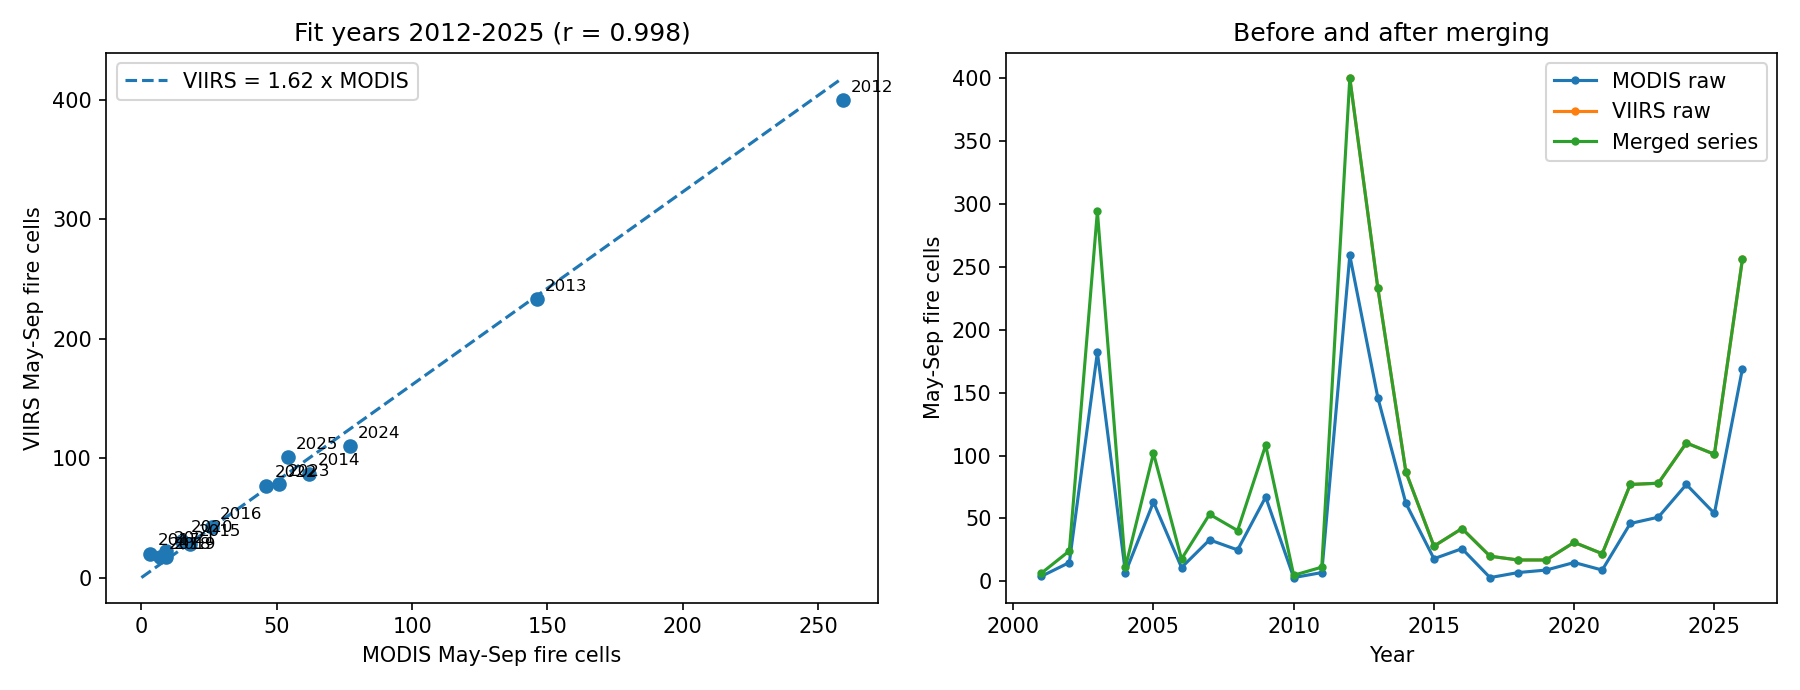
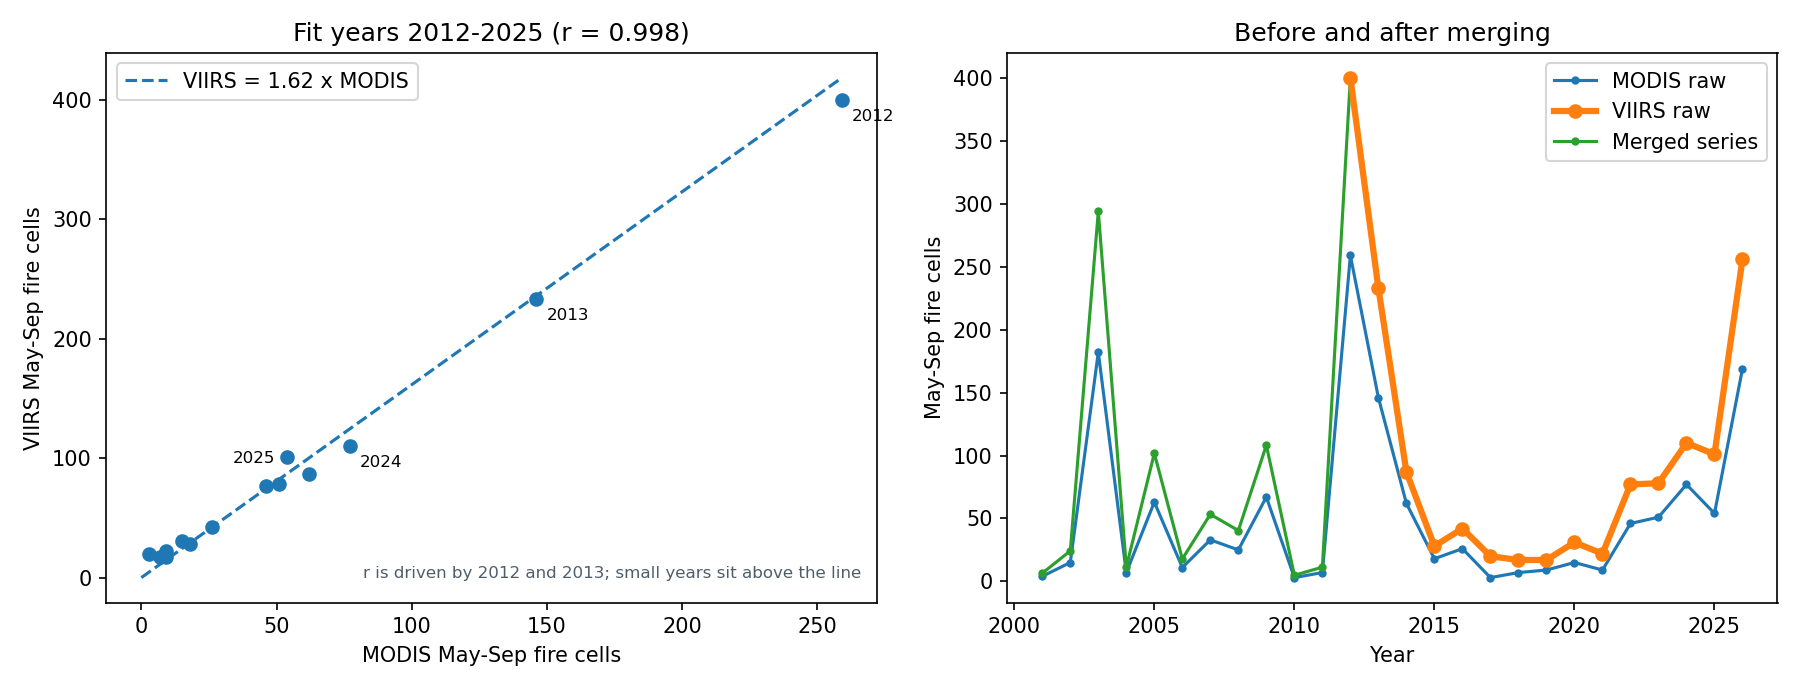
Make VIIRS raw visible and tidy the year labels in the validation chart

diff --git a/pipeline/build_harmonized.py b/pipeline/build_harmonized.py
@@ -199,18 +199,27 @@ def make_figure(path: Path, modis_s, ref_s, harm_s, stats, k, label):
     fig, ax = plt.subplots(1, 2, figsize=(12, 4.6))
     x, y = modis_s.reindex(yrs), ref_s.reindex(yrs)
     ax[0].scatter(x, y)
-    for yr in yrs:
-        ax[0].annotate(str(yr), (x[yr], y[yr]), textcoords="offset points", xytext=(4, 4), fontsize=8)
-    xs = np.linspace(0, max(float(x.max()), 1), 50)
+    # label only a few years so the labels stay readable: the two biggest seasons and the two most recent
+    xr, yr_ = max(float(x.max()), 1), max(float(y.max()), 1)
+    big = sorted(yrs, key=lambda t: -float(x[t]))[:2]
+    for yr in sorted(set(big) | set(yrs[-2:])):
+        last = yr == yrs[-1]                                  # the last year goes just left of its point
+        ax[0].annotate(str(yr), (x[yr], y[yr]), textcoords="offset points", xytext=(-6, -3) if last else (5, -10),
+                       ha="right" if last else "left", fontsize=8)
+    xs = np.linspace(0, xr, 50)
     ax[0].plot(xs, k * xs, "--", label=f"VIIRS = {k:.2f} x MODIS")
     ax[0].set(xlabel=f"MODIS May-Sep {label}", ylabel=f"VIIRS May-Sep {label}",
               title=f"Fit years {yrs[0]}-{yrs[-1]} (r = {stats['pearson_r']:.3f})")
-    ax[0].legend()
-    ax[1].plot(modis_s.index, modis_s.values, marker="o", ms=3, label="MODIS raw")
-    ax[1].plot(ref_s.index[ref_s > 0], ref_s[ref_s > 0], marker="o", ms=3, label="VIIRS raw")
-    ax[1].plot(harm_s.index, harm_s.values, marker="o", ms=3, label="Merged series")
+    ax[0].text(0.98, 0.04, f"r is driven by {min(big)} and {max(big)}; small years sit above the line",
+               transform=ax[0].transAxes, ha="right", va="bottom", fontsize=8, color="#4f5d6b")
+    ax[0].legend(loc="upper left")
+    # merged series first, then the raw VIIRS line on top so it stays visible where the two are equal
+    l_mod, = ax[1].plot(modis_s.index, modis_s.values, marker="o", ms=3, color="C0", label="MODIS raw")
+    l_mrg, = ax[1].plot(harm_s.index, harm_s.values, marker="o", ms=3, color="C2", lw=1.5, label="Merged series")
+    l_vii, = ax[1].plot(ref_s.index[ref_s > 0], ref_s[ref_s > 0], marker="o", ms=6, color="C1", lw=3,
+                        label="VIIRS raw", zorder=3)
     ax[1].set(xlabel="Year", ylabel=f"May-Sep {label}", title="Before and after merging")
-    ax[1].legend()
+    ax[1].legend(handles=[l_mod, l_vii, l_mrg])
     fig.tight_layout()
     fig.savefig(path, dpi=150)
     plt.close(fig)
